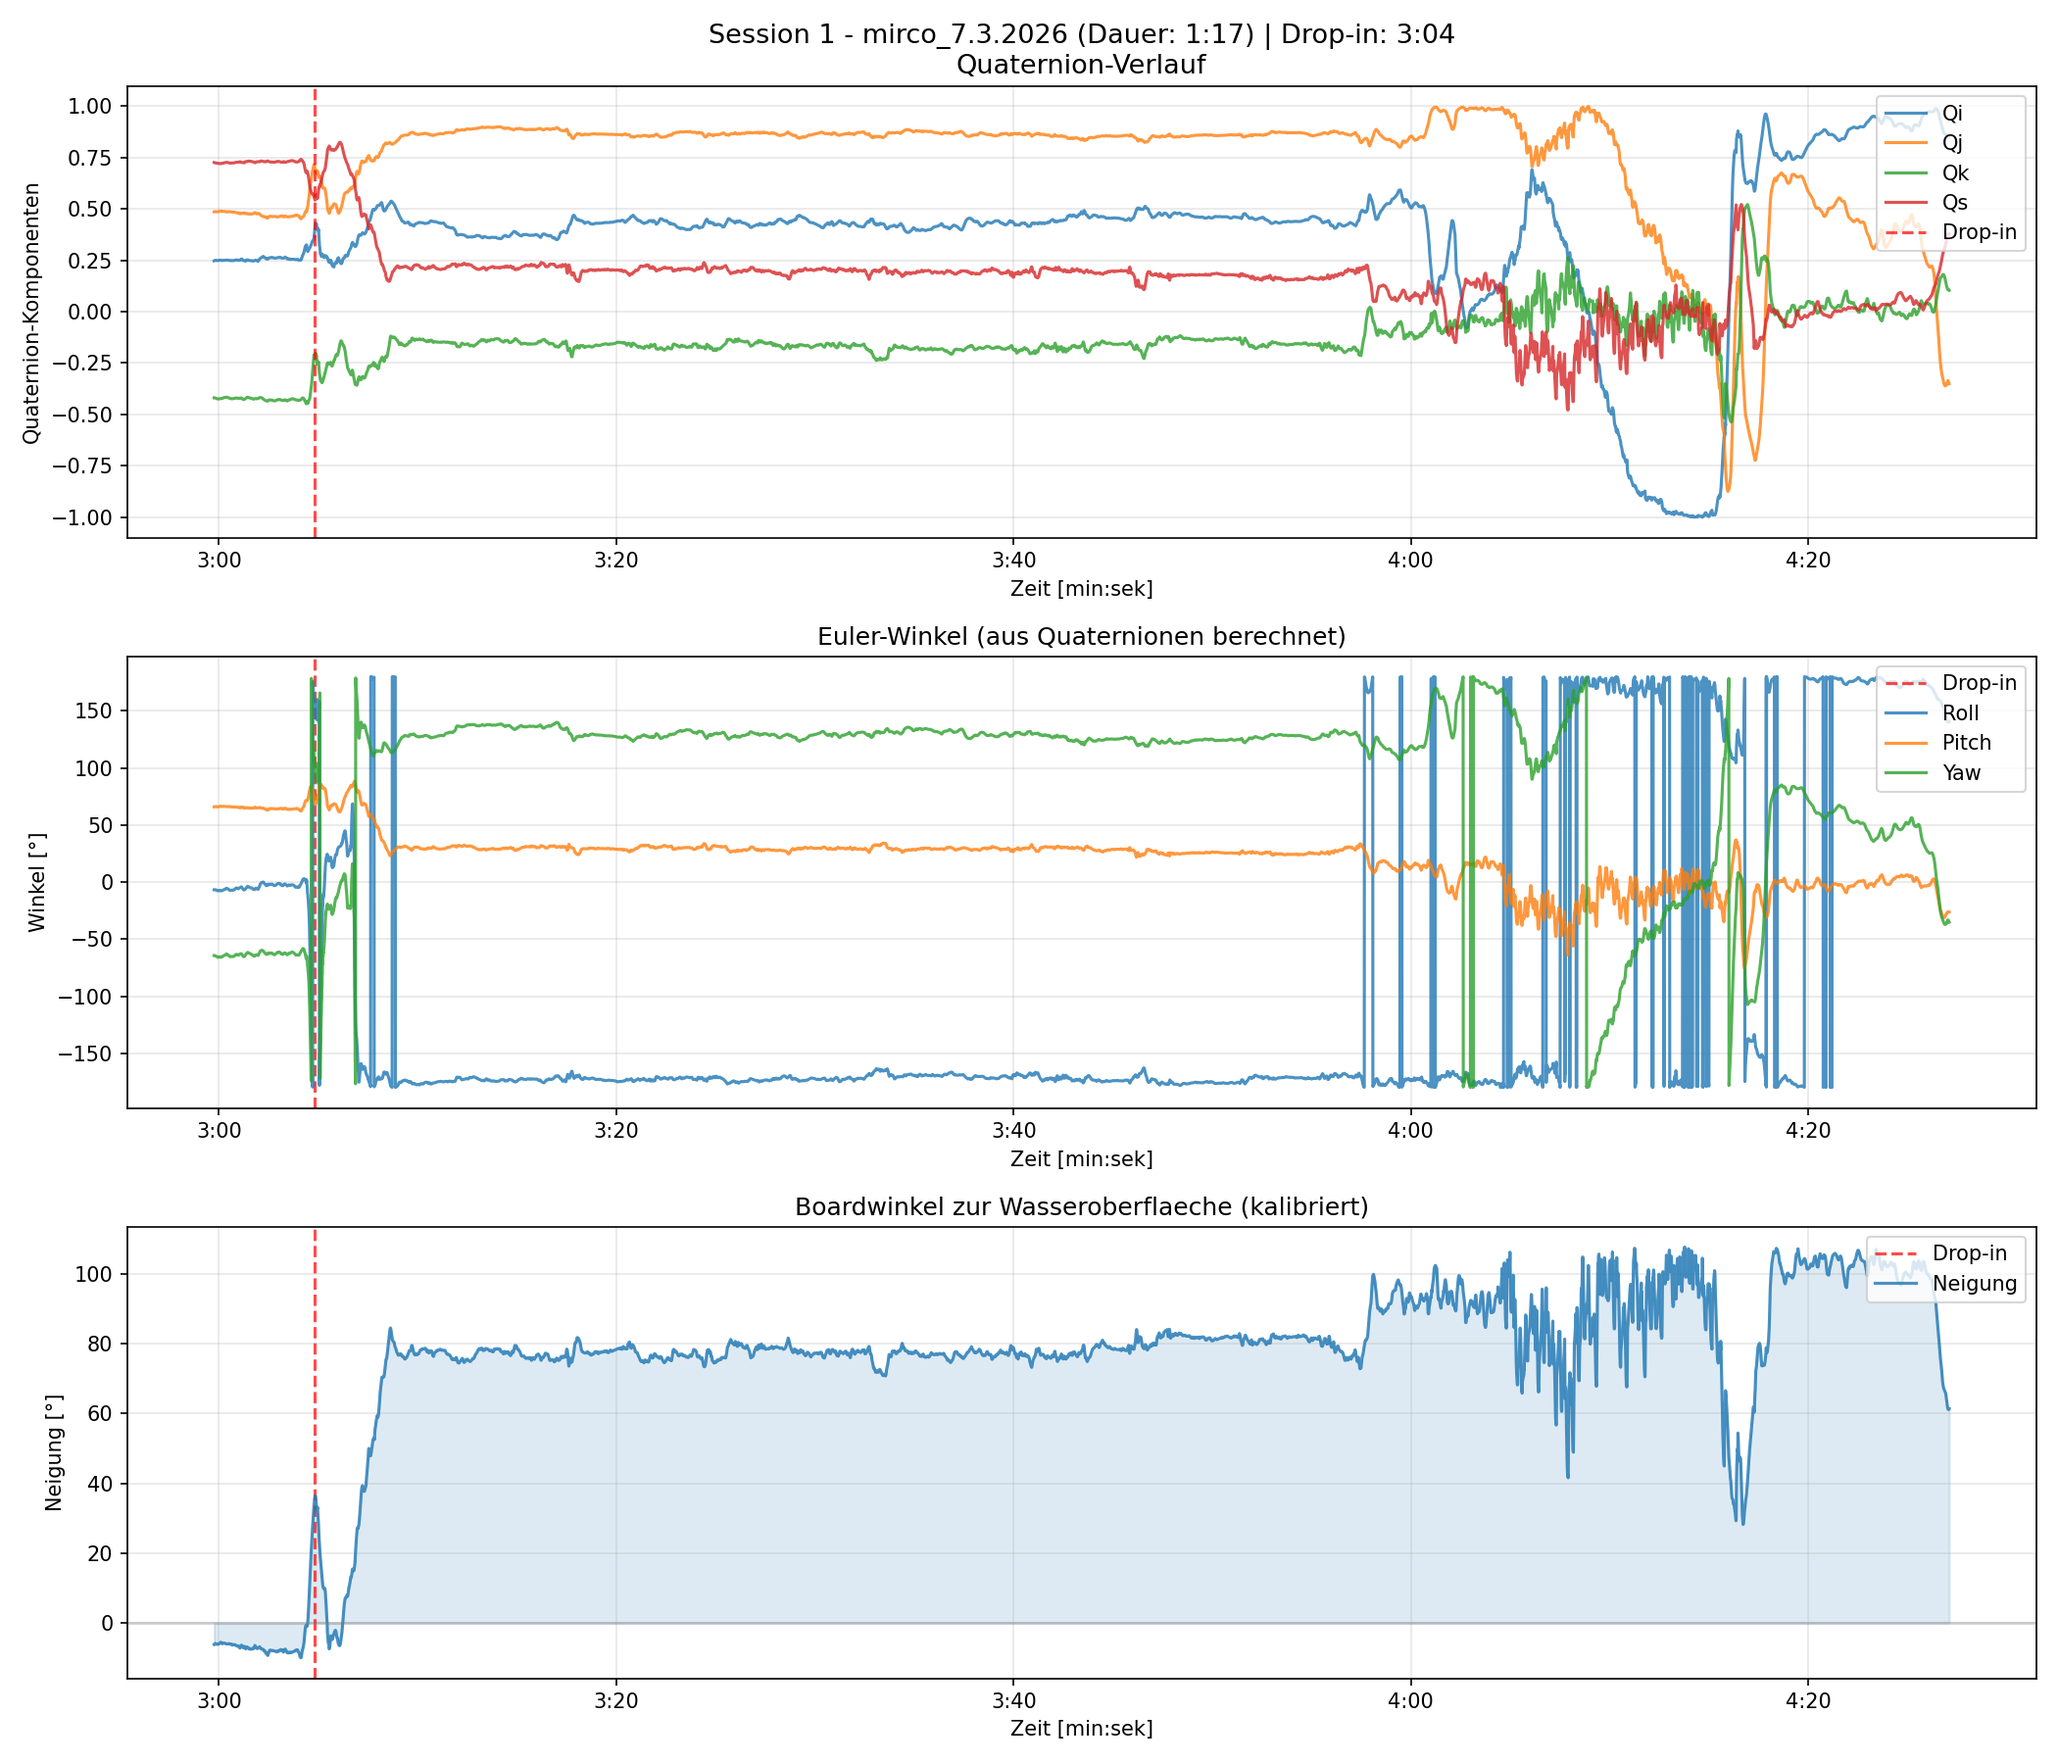
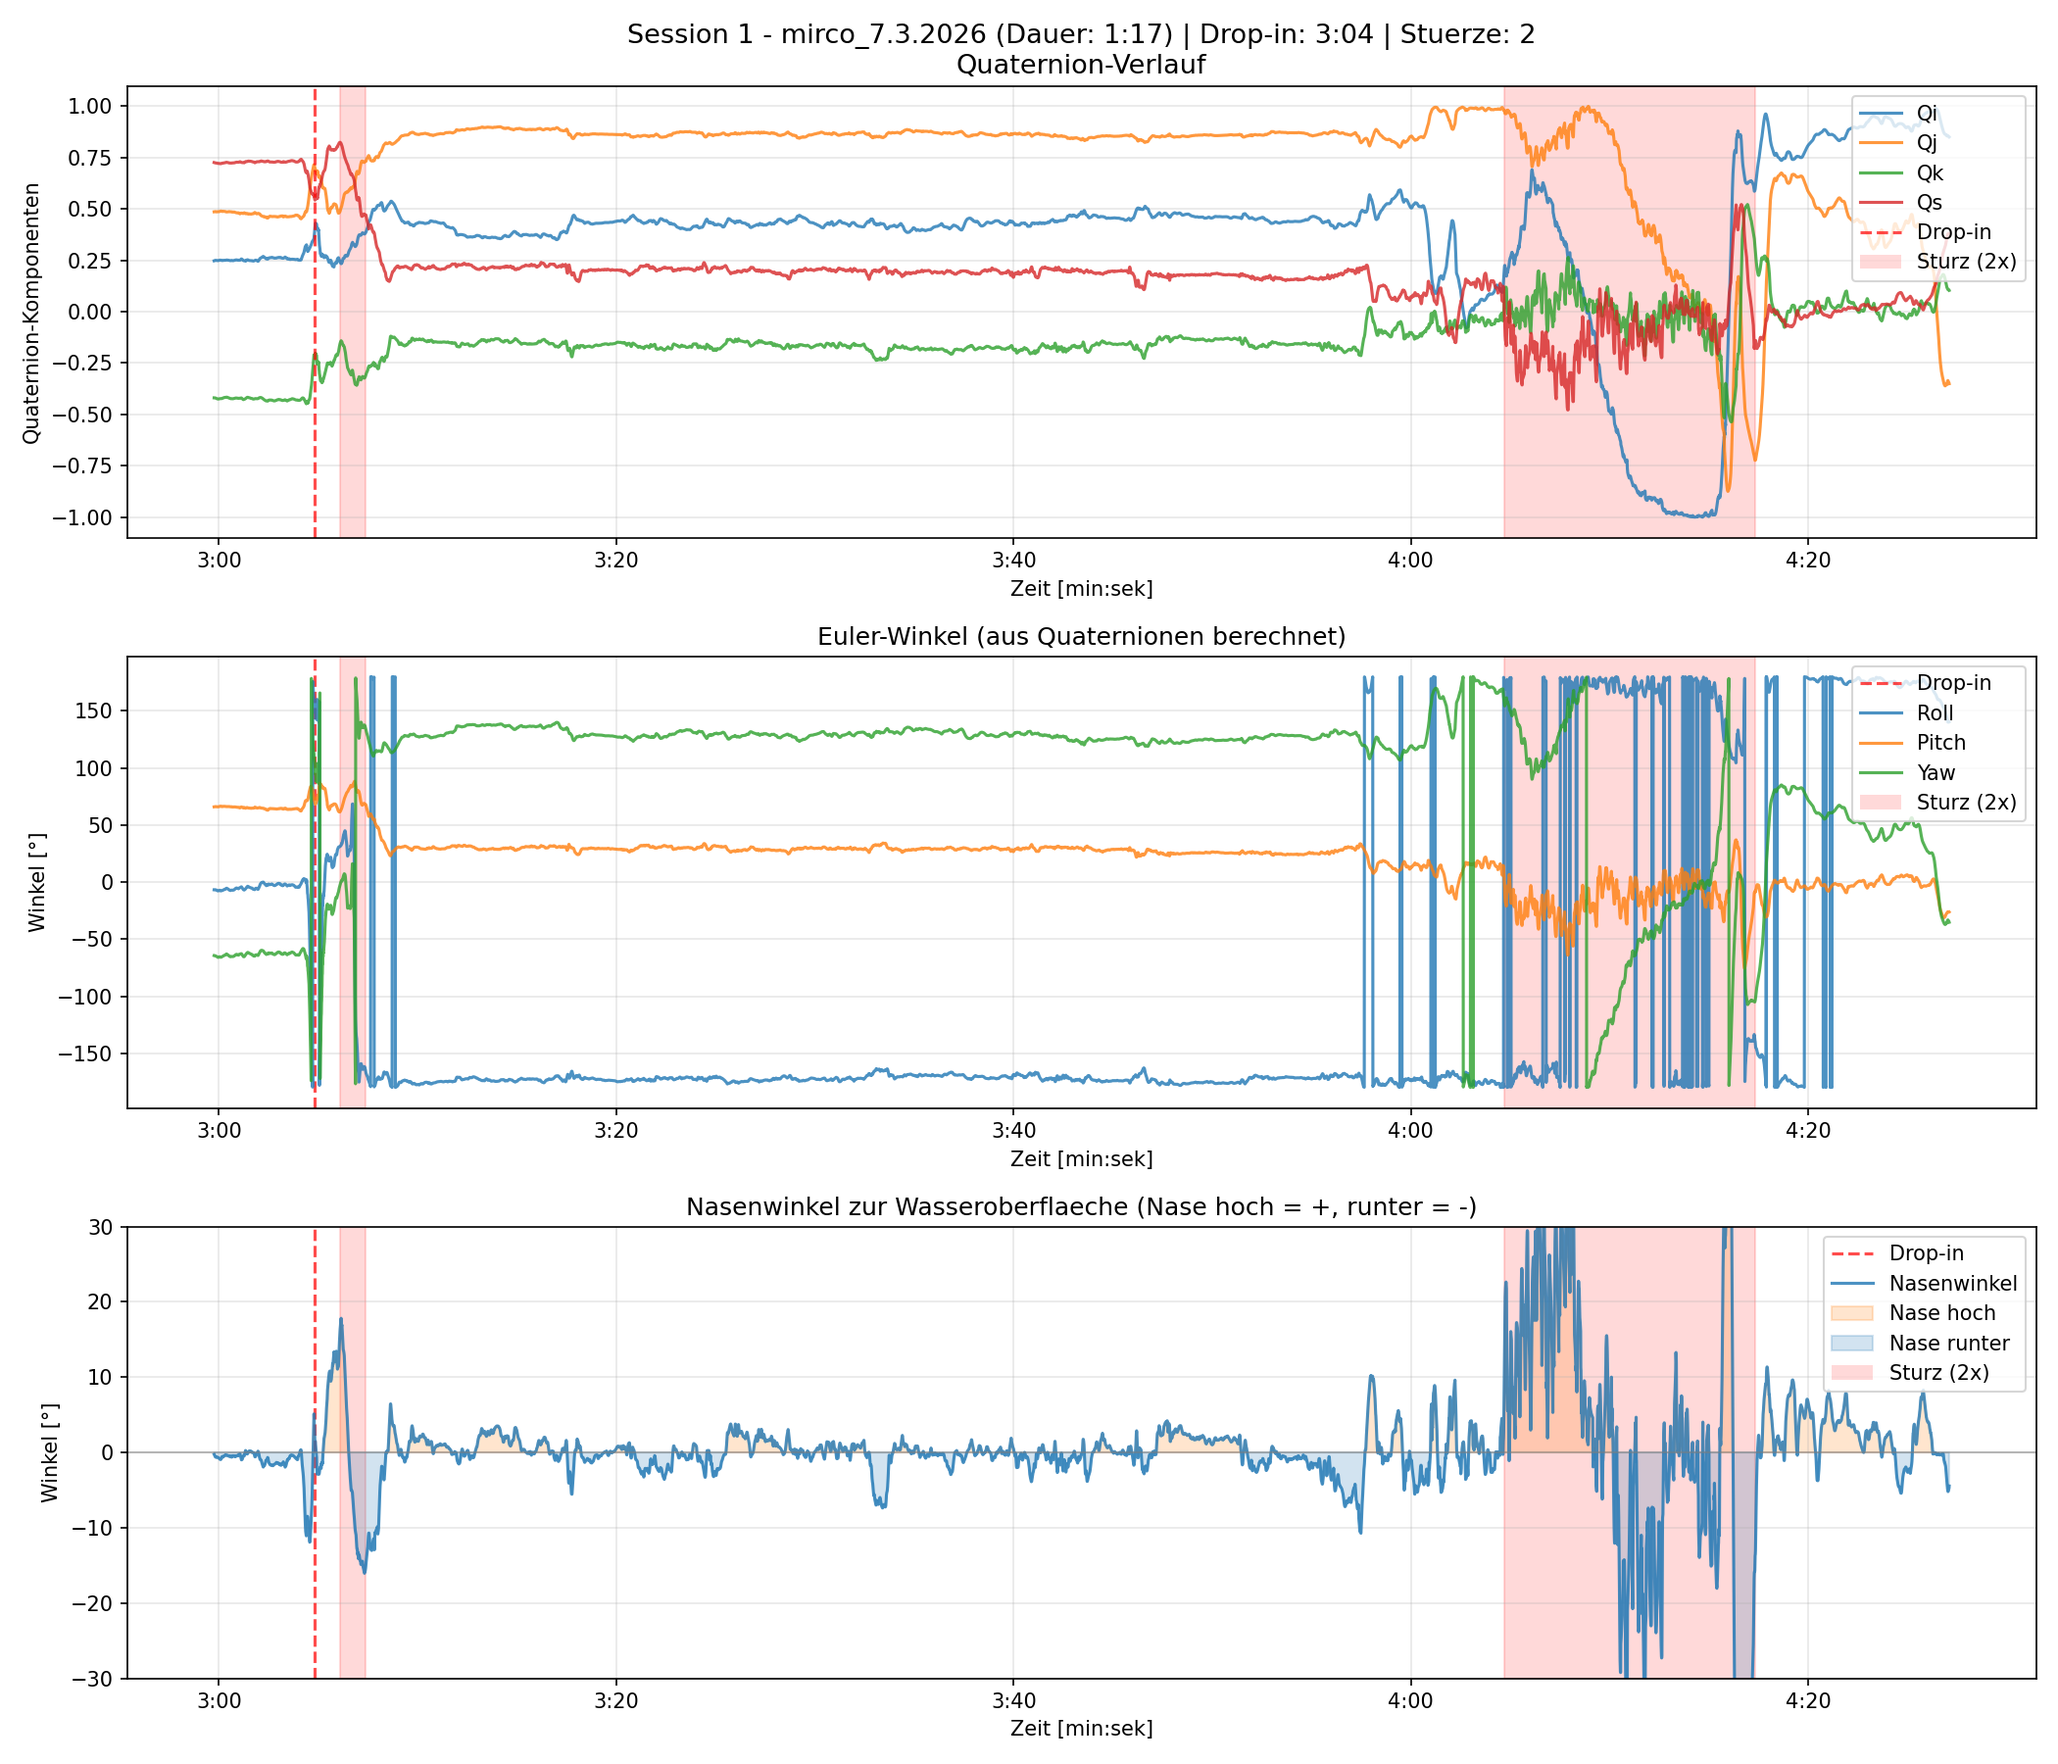
Add nose angle plot with crash detection for pumpfoil sessions
- Compute board nose angle from rotated sensor Y-axis (Breitachse mounting)
- High-pass filter with 15s rolling median baseline for stable 0° reference
- Detect and mark crashes (nose angle > ±15°) as red zones
- Crash count shown in session title
- Y-axis limited to ±30° to clearly show pump sinusoid

diff --git a/Utilities/scripts/visualize_sensors.py b/Utilities/scripts/visualize_sensors.py
@@ -211,8 +211,62 @@ def plot_quaternions(csv_path, output_dir):
             dm2, ds2 = divmod(int(drop_t), 60)
             session_label += f' | Drop-in: {dm2}:{ds2:02d}'
 
+        # Board nose angle to water: rotate sensor Y-axis (nose direction,
+        # sensor mounted in Breitachse = X across board) by quaternion,
+        # then compute elevation angle from horizontal.
+        qi_a = quat_data['Qi'].values
+        qj_a = quat_data['Qj'].values
+        qk_a = quat_data['Qk'].values
+        qs_a = quat_data['Qs'].values
+        # Rotated Y-axis [0,1,0] z-component: nose elevation
+        nose_z = 2 * (qj_a * qk_a - qs_a * qi_a)
+        nose_elev = np.degrees(np.arcsin(np.clip(nose_z, -1, 1)))
+        # High-pass filter: remove slow baseline drift, keep pump oscillation
+        # Use rolling median (robust to crash spikes) over 15 seconds as baseline
+        baseline = pd.Series(nose_elev).rolling(
+            15 * sample_rate_hz, center=True, min_periods=1).median().values
+        nose_angle = nose_elev - baseline
+
+        # Detect crashes: nose angle exceeds ±15° within the session
+        crash_threshold = 15
+        session_nose = np.abs(nose_angle[s:e])
+        in_crash = session_nose > crash_threshold
+        crash_changes = np.diff(in_crash.astype(int), prepend=0)
+        c_starts = s + np.where(crash_changes == 1)[0]
+        c_ends = s + np.where(crash_changes == -1)[0]
+        if len(c_ends) < len(c_starts):
+            c_ends = np.append(c_ends, e)
+        # Merge crash regions within 3 seconds of each other
+        merge_gap = 3 * sample_rate_hz
+        crashes = []
+        for cs, ce in zip(c_starts, c_ends):
+            if crashes and (cs - crashes[-1][1]) < merge_gap:
+                crashes[-1] = (crashes[-1][0], ce)
+            else:
+                crashes.append((cs, ce))
+        crash_count = len(crashes)
+        for cs, ce in crashes:
+            for ax in (az1, az2, az3):
+                ax.axvspan(t_sec[cs], t_sec[ce], alpha=0.15, color='red', zorder=0)
+
+        az3.plot(t_sec[sl], nose_angle[s_padded:e_padded], color='tab:blue', alpha=0.8, label='Nasenwinkel')
+        az3.axhline(0, color='gray', linestyle='-', linewidth=1, alpha=0.5)
+        az3.fill_between(t_sec[sl], 0, nose_angle[s_padded:e_padded],
+                         where=nose_angle[s_padded:e_padded] >= 0,
+                         alpha=0.2, color='tab:orange', label='Nase hoch')
+        az3.fill_between(t_sec[sl], 0, nose_angle[s_padded:e_padded],
+                         where=nose_angle[s_padded:e_padded] < 0,
+                         alpha=0.2, color='tab:blue', label='Nase runter')
+        az3.set_ylabel('Winkel [°]')
+        az3.set_ylim(-30, 30)
+        az3.set_title('Nasenwinkel zur Wasseroberflaeche (Nase hoch = +, runter = -)')
+        az3.grid(True, alpha=0.3)
+        az3.xaxis.set_major_formatter(time_fmt)
+        az3.set_xlabel('Zeit [min:sek]')
+
+        session_label += f' | Stuerze: {crash_count}'
+
         az1.set_title(f'{session_label}\nQuaternion-Verlauf', fontsize=13)
-        az1.legend(loc='upper right')
         az1.grid(True, alpha=0.3)
         az1.xaxis.set_major_formatter(time_fmt)
         az1.set_xlabel('Zeit [min:sek]')
@@ -222,36 +276,23 @@ def plot_quaternions(csv_path, output_dir):
         az2.plot(t_sec[sl], yaw[s_padded:e_padded], label='Yaw', alpha=0.8)
         az2.set_ylabel('Winkel [°]')
         az2.set_title('Euler-Winkel (aus Quaternionen berechnet)')
-        az2.legend(loc='upper right')
         az2.grid(True, alpha=0.3)
         az2.xaxis.set_major_formatter(time_fmt)
         az2.set_xlabel('Zeit [min:sek]')
 
-        # Board angle to water: compute tilt from quaternion directly
-        # Rotate the board normal [0,0,1] by the quaternion to get the
-        # board's up-vector in the world frame, then measure angle from vertical.
-        qi_a = quat_data['Qi'].values
-        qj_a = quat_data['Qj'].values
-        qk_a = quat_data['Qk'].values
-        qs_a = quat_data['Qs'].values
-        # z-component of rotated [0,0,1]: 1 - 2*(qi^2 + qj^2)
-        z_up = 1.0 - 2.0 * (qi_a**2 + qj_a**2)
-        # tilt = angle from vertical: 0° when board normal points straight up
-        tilt_raw = np.degrees(np.arccos(np.clip(z_up, -1, 1)))
-        # Calibrate: quiet period before session = board resting on water = reference
-        cal_len = sample_rate_hz
-        cal_start = max(0, s - cal_len)
-        tilt_ref = np.mean(tilt_raw[cal_start:s])
-        tilt = tilt_raw - tilt_ref
-        az3.plot(t_sec[sl], tilt[s_padded:e_padded], color='tab:blue', alpha=0.8, label='Neigung')
-        az3.axhline(0, color='gray', linestyle='-', alpha=0.3)
-        az3.fill_between(t_sec[sl], 0, tilt[s_padded:e_padded], alpha=0.15, color='tab:blue')
-        az3.set_ylabel('Neigung [°]')
-        az3.set_title('Boardwinkel zur Wasseroberflaeche (kalibriert)')
-        az3.legend(loc='upper right')
-        az3.grid(True, alpha=0.3)
-        az3.xaxis.set_major_formatter(time_fmt)
-        az3.set_xlabel('Zeit [min:sek]')
+        # Add legends with crash patch
+        if crash_count > 0:
+            from matplotlib.patches import Patch
+            crash_patch = Patch(facecolor='red', alpha=0.15,
+                                label=f'Sturz ({crash_count}x)')
+            for ax in (az1, az2, az3):
+                h, l = ax.get_legend_handles_labels()
+                h.append(crash_patch)
+                l.append(f'Sturz ({crash_count}x)')
+                ax.legend(handles=h, labels=l, loc='upper right')
+        else:
+            for ax in (az1, az2, az3):
+                ax.legend(loc='upper right')
 
         plt.tight_layout()
         out_z = os.path.join(output_dir, f'plot_quaternions_{base}_session{i}.png')
